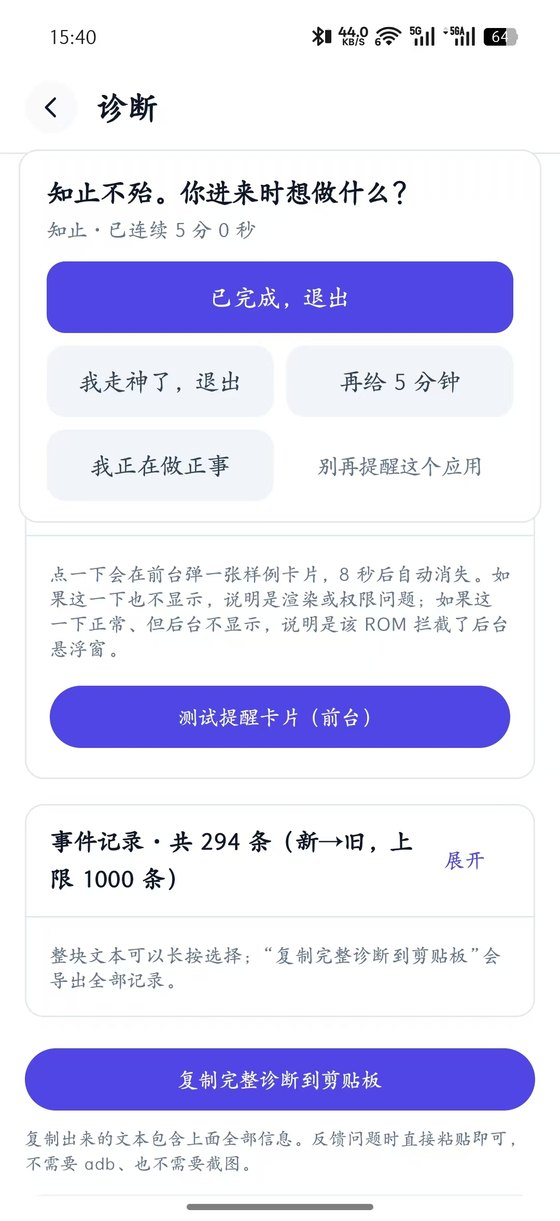
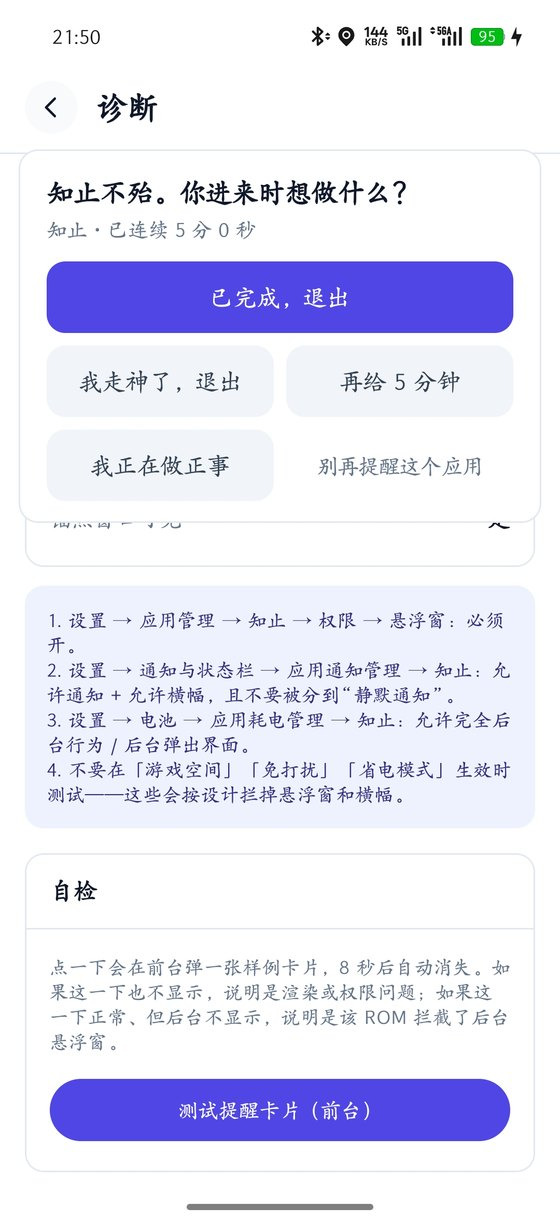
README：换成新版截图（首页/记录/卡片），修正卡片按钮文案为屏幕实际显示；验收清单同步

diff --git a/README.md b/README.md
@@ -7,7 +7,7 @@
 
 <p align="center">
   <img src="docs/screenshots/nudge-card.jpg" width="26%" />
-  <img src="docs/screenshots/categories.jpg" width="26%" />
+  <img src="docs/screenshots/home.jpg" width="26%" />
   <img src="docs/screenshots/stats.jpg" width="26%" />
 </p>
 
@@ -26,9 +26,9 @@
 提醒卡片上有四个答案，你选哪个都行：
 
 * **已完成，退出** —— 记一次统计，回到桌面
-* **还在用，再给 N 分钟** —— 推迟 N 分钟（默认 5）后再问一次
+* **再给 N 分钟** —— 推迟 N 分钟（默认 5）后再问一次
 * **我走神了，退出** —— 记一次统计，回到桌面
-* **我正在做正事，请勿打扰** —— 进入冷静期（默认 15 分钟），期间不再打扰
+* **我正在做正事** —— 进入冷静期（默认 15 分钟），期间不再打扰
 
 它**不会**做的事：锁你的屏幕、阻止你打开任何应用、强制关闭你正在用的应用。
 你随时可以忽略那张卡片继续玩——这是设计如此。

diff --git a/docs/真机验收清单.md b/docs/真机验收清单.md
@@ -44,7 +44,7 @@
 - [ ] **D3** 四个按钮都能点，点击后卡片立刻消失
 - [ ] **D4** 「已完成，退出」/「我走神了，退出」→ 是否真的回到桌面？
       **不管成功与否，都去「本地记录」页确认 `成功/尝试` 计数有变化**
-- [ ] **D5** 「还在查，再给 5 分钟」→ 5 分钟后再次提醒（不是立刻）
+- [ ] **D5** 「再给 5 分钟」→ 5 分钟后再次提醒（不是立刻）
 - [ ] **D6** 「我正在做正事」→ 冷静期内不再提醒
 - [ ] **D7** 回答「退出」之后如果继续留在该应用，10 分钟内不再被提醒
 - [ ] **D8** 卡片出现时按返回键 / Home 键，应用和卡片各自的表现符合预期
